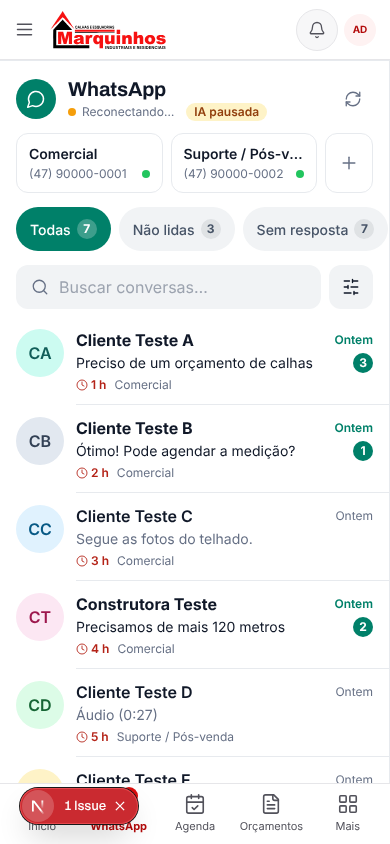
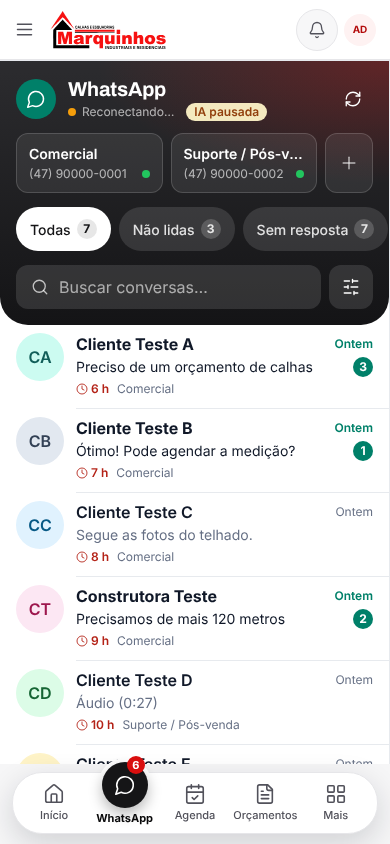
feat(ux): painéis de destaque em Orçamentos, Agenda e WhatsApp com a paleta Marquinhos
- grafite com brilho vermelho no lugar do verde-limão das referências; cartão de destaque em vermelho Marquinhos
- Orçamentos: total da página, contagem e atalhos em pílula no painel
- Agenda: título, Dia/Semana/Mês e navegação de data no painel
- WhatsApp: cabeçalho da lista (números, chips, busca) no painel
- logo original preservada

Claude-Session: https://claude.ai/code/session_019r53HgSe1yoioPFHkHVqRt

diff --git a/app/mobile.css b/app/mobile.css
@@ -323,9 +323,9 @@
 /* ===== Estilo "app": painel de destaque escuro, cartões bem arredondados e barra inferior flutuante ===== */
 @media screen and (max-width: 767px) {
  /* Painel de destaque do Início */
- .mh-hero { margin: -18px -16px 18px; padding: 20px 16px 16px; border-radius: 0 0 28px 28px; color: #fff; background: linear-gradient(180deg, #2a2b2e 0%, #151517 100%); }
- .mobile-home .mh-hero .mh-greeting { font-size: 22px; line-height: 28px; font-weight: 700; color: #fff; }
- .mobile-home .mh-hero .mh-date { margin: 2px 0 16px; font-size: 14px; color: rgb(255 255 255 / .62); }
+ .mh-hero { margin: -18px -16px 18px; padding: 20px 16px 16px; border-radius: 0 0 28px 28px; color: #fff; background: radial-gradient(130% 80% at 100% 0%, rgb(246 17 17 / .30) 0%, transparent 58%), linear-gradient(180deg, #2c2c2f 0%, #141416 100%); }
+ .mh-hero .mh-greeting { font-size: 22px; line-height: 28px; font-weight: 700; color: #fff; }
+ .mh-hero .mh-date { margin: 2px 0 16px; font-size: 14px; color: rgb(255 255 255 / .62); }
  .mh-hero-label { font-size: 13px; line-height: 18px; color: rgb(255 255 255 / .62); }
  .mh-hero-value { margin-top: 2px; font-size: 34px; line-height: 40px; font-weight: 800; letter-spacing: -.03em; font-variant-numeric: tabular-nums; }
  .mh-hero-note { margin-top: 4px; font-size: 13px; line-height: 18px; color: rgb(255 255 255 / .62); }
@@ -371,3 +371,55 @@
  .mh-pill svg { display: none; }
  .mh-hero-value { font-size: 30px; }
 }
+
+/* Marquinhos: grafite + vermelho no lugar do verde-limão das referências */
+@media screen and (max-width: 767px) {
+ .mh-hero h1.mh-greeting { margin: 0; font-size: 24px; line-height: 30px; font-weight: 800; letter-spacing: -.02em; }
+ .mh-hero .mh-hero-label { margin-top: 14px; }
+ /* cartão de destaque (um por tela), como o cartão em lima da referência */
+ .mh-kpis > .mh-kpi:first-child { background: linear-gradient(135deg, #F61111 0%, #B30B0B 100%); border-color: transparent; color: #fff; box-shadow: 0 8px 20px rgb(179 11 11 / .28); }
+ .mh-kpis > .mh-kpi:first-child .mh-kpi-text small, .mh-kpis > .mh-kpi:first-child .mh-kpi-text strong, .mh-kpis > .mh-kpi:first-child .mh-kpi-text em { color: #fff; }
+ .mh-kpis > .mh-kpi:first-child .mh-kpi-icon { background: rgb(255 255 255 / .2); color: #fff; }
+
+ /* Agenda dentro do painel */
+ .agenda-hero { padding-bottom: 14px; }
+ .agenda-hero .mobile-agenda-heading { margin-bottom: 12px; }
+ .agenda-hero .mobile-agenda-heading h1 { color: #fff; font-size: 24px; }
+ .agenda-hero .mobile-agenda-heading h1 svg { color: rgb(255 255 255 / .7); }
+ .agenda-hero .mobile-icon-button { background: rgb(255 255 255 / .12); border-color: transparent; color: #fff; }
+ .agenda-hero .mobile-segmented { background: rgb(255 255 255 / .1); border-color: transparent; }
+ .agenda-hero .mobile-segmented > button { color: rgb(255 255 255 / .75); }
+ .agenda-hero .mobile-segmented > button[aria-pressed=true] { background: #fff; color: #151517; }
+ .agenda-hero .mobile-date-nav { background: rgb(255 255 255 / .1); border-color: transparent; margin-bottom: 8px; }
+ .agenda-hero .mobile-date-nav > button { color: #fff; }
+ .agenda-hero-note { font-size: 13px; line-height: 18px; color: rgb(255 255 255 / .62); text-align: center; }
+
+ /* WhatsApp: cabeçalho da lista em painel */
+ .mobile-inbox .wa-list-head { padding-bottom: 16px; border-radius: 0 0 28px 28px; color: #fff; background: radial-gradient(130% 80% at 100% 0%, rgb(246 17 17 / .26) 0%, transparent 58%), linear-gradient(180deg, #2c2c2f 0%, #141416 100%); }
+ .mobile-inbox .wa-list-head .wa-title { color: #fff; }
+ .mobile-inbox .wa-list-head .wa-subtitle { color: rgb(255 255 255 / .65); }
+ .mobile-inbox .wa-list-head .wa-icon-btn { color: #fff; }
+ .mobile-inbox .wa-list-head .wa-icon-btn:hover { background: rgb(255 255 255 / .12); }
+ .mobile-inbox .wa-list-head .wa-icon-btn-box { background: rgb(255 255 255 / .12); color: #fff; }
+ .mobile-inbox .wa-list-head .wa-number { background: rgb(255 255 255 / .08); border-color: rgb(255 255 255 / .16); }
+ .mobile-inbox .wa-list-head .wa-number[aria-pressed="true"] { background: rgb(255 255 255 / .18); border-color: #fff; }
+ .mobile-inbox .wa-list-head .wa-number-name { color: #fff; }
+ .mobile-inbox .wa-list-head .wa-number-phone, .mobile-inbox .wa-list-head .wa-number-add { color: rgb(255 255 255 / .65); }
+ .mobile-inbox .wa-list-head .wa-chip { background: rgb(255 255 255 / .12); color: rgb(255 255 255 / .85); }
+ .mobile-inbox .wa-list-head .wa-chip[aria-pressed="true"] { background: #fff; color: #151517; }
+ .mobile-inbox .wa-list-head .wa-chip-count { background: rgb(255 255 255 / .18); }
+ .mobile-inbox .wa-list-head .wa-chip[aria-pressed="true"] .wa-chip-count { background: rgb(21 21 23 / .1); }
+ .mobile-inbox .wa-list-head .wa-search { background: rgb(255 255 255 / .12); color: rgb(255 255 255 / .7); }
+ .mobile-inbox .wa-list-head .wa-search:focus-within { background: rgb(255 255 255 / .2); border-color: transparent; }
+ .mobile-inbox .wa-list-head .wa-search input { color: #fff; }
+ .mobile-inbox .wa-list-head .wa-search input::placeholder { color: rgb(255 255 255 / .6); }
+ .mobile-inbox .wa-list-head .wa-link { color: #fff; text-decoration: underline; }
+ .mobile-inbox .wa-list-head .wa-pill-warn { background: rgb(254 243 199 / .95); }
+ .mobile-inbox .wa-list .wa-conv:first-child { padding-top: 8px; }
+}
+@media screen and (max-width: 767px) {
+ .agenda-equipes-link { display: none; }
+ .mobile-date-label { text-transform: none; }
+ .mobile-date-label::first-letter { text-transform: uppercase; }
+}
+@media screen and (max-width: 767px) { .mobile-day-heading .mobile-inline-button { display: none; } }

diff --git a/components/quote-workspace.tsx b/components/quote-workspace.tsx
@@ -23,7 +23,14 @@ export function QuoteWorkspace({rows,error,query,page,hasMore,status,filters={},
  const tabs=[['','Todos'],['rascunho','Rascunho'],['enviado','Enviados'],['aprovado','Aprovados'],['recusado','Perdidos']] as const;
  const qs=(nextPage=1,nextStatus=status)=>'/orcamentos?pagina='+nextPage+(query?'&q='+encodeURIComponent(query):'')+(nextStatus?'&status='+encodeURIComponent(nextStatus):'')+extra;
  return <div className="mobile-quote-workspace mx-auto max-w-[1500px]">
-  <header className="mb-7 flex flex-wrap items-end justify-between gap-4"><div><p className="login-kicker">Comercial · Propostas</p><h1 className="text-3xl font-extrabold">Orçamentos</h1><p className="mt-2 text-sm text-ink/60">Cada detalhe do projeto, do primeiro contato à aprovação.</p></div><div className="flex flex-wrap gap-2"><Link className="button-ghost" href="/orcamentos/esquadrias">Esquadrias</Link><Link className="button" href="/orcamentos/calhas"><Plus size={17}/>Novo orçamento</Link></div></header>
+  <div className="mobile-only mh-hero" role="region" aria-label="Resumo dos orçamentos">
+   <h1 className="mh-greeting">Orçamentos</h1>
+   <p className="mh-hero-label">Total desta página</p>
+   <p className="mh-hero-value">{money(rows.reduce((n,row)=>n+Number(row.total||0),0))}</p>
+   <p className="mh-hero-note">{rows.length} {rows.length===1?'proposta':'propostas'} · {rows.filter(row=>row.status==='aprovado').length} {rows.filter(row=>row.status==='aprovado').length===1?'aprovada':'aprovadas'}</p>
+   <div className="mh-hero-actions"><Link href="/orcamentos/calhas" className="mh-pill is-primary"><Plus size={18}/>Novo orçamento</Link><Link href="/orcamentos/esquadrias" className="mh-pill">Esquadrias</Link></div>
+  </div>
+  <header className="desktop-only mb-7 flex flex-wrap items-end justify-between gap-4"><div><p className="login-kicker">Comercial · Propostas</p><h1 className="text-3xl font-extrabold">Orçamentos</h1><p className="mt-2 text-sm text-ink/60">Cada detalhe do projeto, do primeiro contato à aprovação.</p></div><div className="flex flex-wrap gap-2"><Link className="button-ghost" href="/orcamentos/esquadrias">Esquadrias</Link><Link className="button" href="/orcamentos/calhas"><Plus size={17}/>Novo orçamento</Link></div></header>
   <section className="mb-6 grid gap-4 sm:grid-cols-3">{[['Total desta página',money(rows.reduce((n,row)=>n+Number(row.total||0),0))],['Propostas na lista',String(rows.length)],['Aprovadas nesta página',String(rows.filter(row=>row.status==='aprovado').length)]].map(([label,value],i)=><div key={label} className={'card p-5'+(i===0?' kpi-highlight':'')}><p className="text-xs text-ink/60">{label}</p><p className="display-font mt-4 text-2xl font-extrabold num">{value}</p></div>)}</section>
   <div className="card quote-workspace-card">
    <div className="flex flex-wrap items-center justify-between gap-4 border-b p-4"><nav className="flex flex-wrap gap-2" aria-label="Status do orçamento">{tabs.map(([value,label])=><Link key={value} href={qs(1,value)} className={status===value||(!status&&!value)?'button rounded-full':'button-ghost rounded-full'}>{label}</Link>)}</nav><div className="quote-search-row"><LiveSearchForm query={query} className="relative"><Search size={16} className="absolute left-3 top-3.5 text-ink/50"/><input className="field w-full pl-9" name="q" defaultValue={query} placeholder="Buscar por número ou cliente..." aria-label="Buscar orçamento"/>{status&&<input type="hidden" name="status" value={status}/>}{(['de','ate','vendedor','servico'] as const).map(k=>filters[k]?<input key={k} type="hidden" name={k} value={filters[k]}/>:null)}</LiveSearchForm><button type="button" aria-label="Filtros" className="quote-filter-toggle" aria-expanded={filtersOpen} aria-controls="quote-filters" onClick={()=>setFiltersOpen(open=>!open)}><SlidersHorizontal size={18}/><span className="quote-filter-label">Filtros</span>{activeFilters>0&&<span className="quote-filter-count">{activeFilters}</span>}</button></div></div>

diff --git a/components/mobile-agenda.tsx b/components/mobile-agenda.tsx
@@ -26,9 +26,12 @@ export function MobileAgenda({cursor,view,events,loading,onCursor,onView,onNew,o
  const cells=Array.from({length:count},(_,i)=>add(start,i));
  function navigate(n:number){onCursor(view==='mes'?new Date(cursor.getFullYear(),cursor.getMonth()+n,1):add(cursor,n*(view==='semana'?7:1)))}
  return <div className="mobile-agenda" data-testid="mobile-agenda">
+  <section className="mh-hero agenda-hero" aria-label="Resumo da agenda">
   <header className="mobile-agenda-heading"><h1><CalendarDays size={26}/>Agenda</h1><div className="mobile-agenda-heading-actions"><button className="mobile-icon-button" onClick={onReload} disabled={loading} aria-label="Atualizar agenda"><RefreshCw size={19} className={loading?'animate-spin':''}/></button><button className="mobile-new-button" onClick={()=>onNew(key)} aria-label="Novo compromisso"><Plus size={19}/>Agendar</button></div></header>
   <div className="mobile-segmented" aria-label="Visualização da agenda">{(['dia','semana','mes'] as View[]).map(v=><button key={v} aria-pressed={v===view} onClick={()=>onView(v)}>{v==='mes'?'Mês':v==='semana'?'Semana':'Dia'}</button>)}</div>
-  <div className="mobile-date-nav"><button aria-label="Período anterior" onClick={()=>navigate(-1)}><ChevronLeft size={22}/></button><button className="mobile-date-label" onClick={()=>onCursor(new Date())} aria-label="Voltar para hoje"><CalendarDays size={20}/>{view==='dia'?(key===today?'Hoje, ':'')+cursor.toLocaleDateString('pt-BR',{day:'numeric',month:'short',weekday:'short'}).replace('.',''):cursor.toLocaleDateString('pt-BR',{month:'long',year:'numeric'})}</button><button aria-label="Próximo período" onClick={()=>navigate(1)}><ChevronRight size={22}/></button></div>
+  <div className="mobile-date-nav"><button aria-label="Período anterior" onClick={()=>navigate(-1)}><ChevronLeft size={22}/></button><button className="mobile-date-label" onClick={()=>onCursor(new Date())} aria-label="Voltar para hoje"><CalendarDays size={20}/>{view==='dia'?(key===today?'Hoje · ':'')+cursor.toLocaleDateString('pt-BR',{weekday:'short',day:'numeric',month:'short'}).replace(/\./g,''):cursor.toLocaleDateString('pt-BR',{month:'long',year:'numeric'})}</button><button aria-label="Próximo período" onClick={()=>navigate(1)}><ChevronRight size={22}/></button></div>
+  <p className="agenda-hero-note">{all.length} {all.length===1?'compromisso':'compromissos'} no dia · {all.filter(e=>isAgendaDone(e.status)).length} concluído(s)</p>
+  </section>
   {view!=='dia'&&<section className="mobile-calendar" aria-label="Calendário">
    <><div className="mobile-calendar-weekdays" aria-hidden="true">{days.map((d,i)=><span key={i}>{d}</span>)}</div><div className="mobile-calendar-days">{cells.map(d=>{const k=dateKey(d),items=byDay.get(k)??[];return <button key={k} className={`mobile-calendar-day${k===key?' is-selected':''}${k===today?' is-today':''}${d.getMonth()!==cursor.getMonth()?' is-outside':''}`} aria-label={`${dateLabel(d)}, ${items.length} compromisso${items.length===1?'':'s'}`} aria-pressed={k===key} onClick={()=>onCursor(d)}><span>{d.getDate()}</span><i aria-hidden="true" className="mobile-day-dots">{items.filter(e=>e.status!=='cancelado').slice(0,3).map(e=><b key={`${e.source}-${e.id}`} data-type={e.type}/>)}</i></button>})}</div></>
    <button className="mobile-calendar-today" onClick={()=>onCursor(new Date())}>Voltar para hoje</button>

diff --git a/components/agenda-page.tsx b/components/agenda-page.tsx
@@ -127,7 +127,7 @@ export function AgendaPage({ initialEvents, initialError = "" }: { initialEvents
 
   return (
     <div className="mx-auto max-w-[1400px]">
-      <Link href={`/equipes?dia=${ymd(cursor)}`} className="mb-4 inline-block text-sm font-bold underline">Equipes, veículos e carregamento</Link>
+      <Link href={`/equipes?dia=${ymd(cursor)}`} className="agenda-equipes-link mb-4 inline-block text-sm font-bold underline">Equipes, veículos e carregamento</Link>
       {mobile ? <><MobileAgenda cursor={cursor} view={mobileView} events={events} loading={loading} onCursor={setCursor} onView={setMobileView} onNew={setCreateFor} onSelect={setSelected} onReload={reload}/>{loadError&&<p role="alert" className="mt-4 text-sm text-red-600">{loadError}</p>}</> : <>
         {loading&&!events.length&&<p role="status" className="mb-2 text-sm font-bold text-ink/50">Carregando agenda…</p>}
       {/* ── Header ── */}
